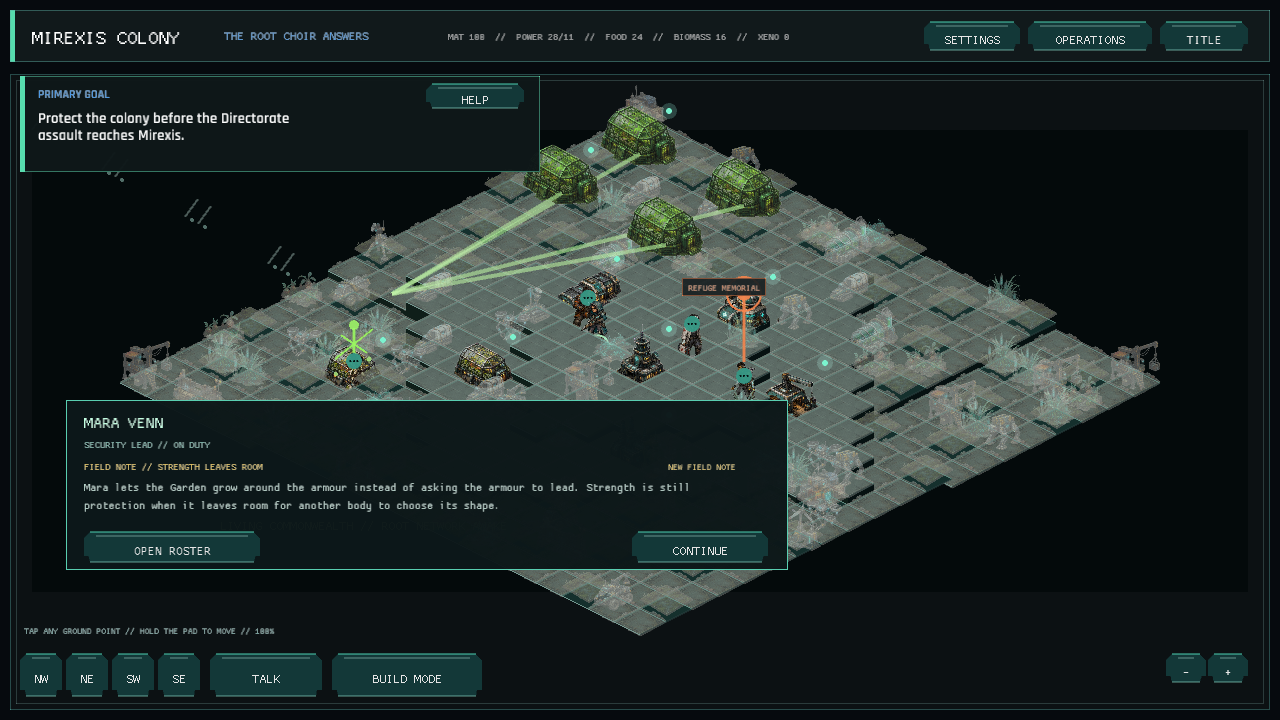
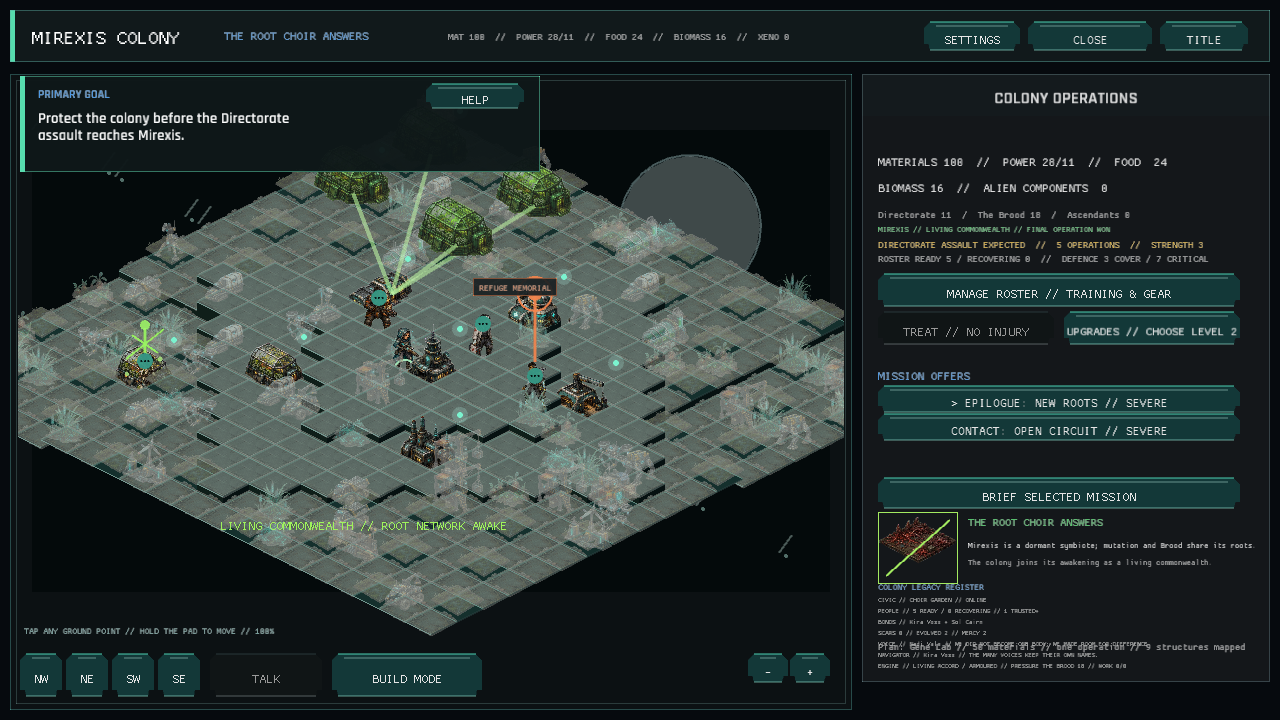
The three houses keep their ledger inside (ending register)
Ending captures previously hid the identity card behind a closed Operations drawer, while the colony legacy register overflowed its lower panel when opened. Show the complete ending drawer in all three deterministic captures, compress the register into seven bounded lines, add register coverage, refresh evidence, and record the 1.202.0 no-schema-change checkpoint.

diff --git a/src/epilogue.rs b/src/epilogue.rs
@@ -12,9 +12,7 @@ pub(crate) struct EpilogueDossier {
     recovering: usize,
     trusted_bonds: usize,
     bond_detail: String,
-    scars: String,
     scar_count: usize,
-    evolutions: String,
     evolved_count: usize,
     character_voice: String,
     navigator_voice: String,
@@ -27,34 +25,6 @@ pub(crate) struct EpilogueDossier {
 }
 
 impl EpilogueDossier {
-    pub(crate) fn lines(&self) -> [String; 8] {
-        [
-            format!(
-                "CIVIC // {} // {}",
-                self.institution.to_uppercase(),
-                self.institution_status
-            ),
-            format!("PEOPLE // {}", self.people),
-            format!(
-                "BONDS // {} TRUSTED+ // {}",
-                self.trusted_bonds, self.bond_detail
-            ),
-            format!("SCARS // {}", self.scars),
-            format!("EVOLUTION // {}", self.evolutions),
-            format!("VOICE // {}", self.character_voice),
-            format!("NAVIGATOR // {}", self.navigator_voice),
-            format!(
-                "ENGINE // {} / {} // {} // MERCY {} // EPILOGUE WORK {} // CIVIC WORK {}",
-                self.engine_relationship,
-                self.engine_response,
-                self.faction_pressure,
-                self.mercy_count,
-                self.post_campaign_operations_completed,
-                self.identity_stewardship_completed
-            ),
-        ]
-    }
-
     pub(crate) fn debrief_summary_lines(&self) -> [String; 3] {
         [
             format!(
@@ -76,6 +46,35 @@ impl EpilogueDossier {
                 self.engine_relationship,
                 self.engine_response,
                 self.mercy_count,
+                self.post_campaign_operations_completed,
+                self.identity_stewardship_completed
+            ),
+        ]
+    }
+
+    pub(crate) fn register_lines(&self) -> [String; 7] {
+        [
+            format!(
+                "CIVIC // {} // {}",
+                self.institution.to_uppercase(),
+                self.institution_status
+            ),
+            format!(
+                "PEOPLE // {} READY / {} RECOVERING // {} TRUSTED+",
+                self.ready, self.recovering, self.trusted_bonds
+            ),
+            format!("BONDS // {}", self.bond_detail),
+            format!(
+                "SCARS {} // EVOLVED {} // MERCY {}",
+                self.scar_count, self.evolved_count, self.mercy_count
+            ),
+            format!("VOICE // {}", self.character_voice),
+            format!("NAVIGATOR // {}", self.navigator_voice),
+            format!(
+                "ENGINE // {} / {} // PRESSURE {} // WORK {}/{}",
+                self.engine_relationship,
+                self.engine_response,
+                self.faction_pressure,
                 self.post_campaign_operations_completed,
                 self.identity_stewardship_completed
             ),
@@ -145,34 +144,17 @@ pub(crate) fn derive(campaign: &CampaignState) -> Option<EpilogueDossier> {
         },
     );
 
-    let scarred = campaign
-        .roster
-        .iter()
-        .filter(|character| !character.traumas.is_empty())
-        .map(|character| character.name.clone())
-        .collect::<Vec<_>>();
     let scar_count = campaign
         .roster
         .iter()
         .map(|character| character.traumas.len())
         .sum::<usize>();
-    let scars = if scar_count == 0 {
-        "NONE RECORDED".to_owned()
-    } else {
-        format!("{} CARRIED // {}", scar_count, scarred.join(", "))
-    };
 
-    let evolved = campaign
+    let evolved_count = campaign
         .roster
         .iter()
         .filter(|character| !character.mutation_evolution_id.is_empty())
-        .map(|character| character.name.clone())
-        .collect::<Vec<_>>();
-    let evolutions = if evolved.is_empty() {
-        "NONE // THE OLD BODY HOLDS".to_owned()
-    } else {
-        format!("{} COLONISTS // {}", evolved.len(), evolved.join(", "))
-    };
+        .count();
     let character_voice = character_voice(campaign);
     let navigator_voice = navigator_voice(campaign);
     let engine_relationship = engine_relationship(&campaign.strategy.mirexis_path_id);
@@ -193,10 +175,8 @@ pub(crate) fn derive(campaign: &CampaignState) -> Option<EpilogueDossier> {
         recovering,
         trusted_bonds: trusted.len(),
         bond_detail,
-        scars,
         scar_count,
-        evolutions,
-        evolved_count: evolved.len(),
+        evolved_count,
         character_voice,
         navigator_voice,
         engine_relationship,

diff --git a/src/epilogue/tests.rs b/src/epilogue/tests.rs
@@ -46,20 +46,7 @@ fn epilogue_records_the_civic_state_and_people_who_carried_it() {
     });
 
     let dossier = derive(&campaign).unwrap();
-    let lines = dossier.lines();
     assert_eq!(dossier.institution, "Redoubt Arsenal");
-    assert!(lines[0].contains("REDOUBT ARSENAL"));
-    assert!(lines[1].contains("COLONISTS"));
-    assert!(lines[2].contains("TRUSTED+"));
-    assert!(lines[2].contains("+") && !lines[2].contains("NO TRUSTED"));
-    assert!(lines[3].contains("CARRIED"));
-    assert!(lines[4].contains("EVOLUTION"));
-    assert!(lines[6].contains("NAVIGATOR // Kira Voss"));
-    assert!(lines[7].contains("ENGINE // HUMAN BOUNDARY / ARMOURED"));
-    assert!(lines[7].contains("DIRECTORATE 29"));
-    assert!(lines[7].contains("MERCY 1"));
-    assert!(lines[7].contains("EPILOGUE WORK 2"));
-    assert!(lines[7].contains("CIVIC WORK 3"));
     let summary = dossier.debrief_summary_lines();
     assert!(summary[0].contains("REDOUBT ARSENAL ONLINE"));
     assert!(summary[0].contains("5 COLONISTS"));
@@ -70,6 +57,13 @@ fn epilogue_records_the_civic_state_and_people_who_carried_it() {
     assert!(summary[2].contains("ENGINE HUMAN BOUNDARY / ARMOURED"));
     assert!(summary[2].contains("EPILOGUE 2"));
     assert!(summary[2].contains("CIVIC 3"));
+    let register = dossier.register_lines();
+    assert_eq!(register.len(), 7);
+    assert!(register[0].contains("CIVIC // REDOUBT ARSENAL // ONLINE"));
+    assert!(register[1].contains("5 READY / 0 RECOVERING // 1 TRUSTED+"));
+    assert!(register[2].contains("Kira Voss + Mara Venn"));
+    assert!(register[3].contains("SCARS 1 // EVOLVED 1 // MERCY 1"));
+    assert!(register[6].contains("PRESSURE DIRECTORATE 29 // WORK 2/3"));
 }
 
 #[test]
@@ -122,13 +116,13 @@ fn epilogue_adds_an_authored_voice_for_each_identity_path() {
         campaign.strategy.escalation_response_id = response_id.to_owned();
         campaign.strategy.character_events[0].resolved = true;
 
-        let ready = derive(&campaign).unwrap().lines();
-        assert!(ready[5].contains(character_name));
-        assert!(ready[5].contains(ready_line));
-        assert!(ready[6].contains("NAVIGATOR // Kira Voss"));
-        assert!(ready[7].contains(engine_relationship));
-        assert!(ready[7].contains(engine_response));
-        assert!(ready[7].contains("MERCY 1"));
+        let ready = derive(&campaign).unwrap().register_lines();
+        assert!(ready[4].contains(character_name));
+        assert!(ready[4].contains(ready_line));
+        assert!(ready[5].contains("NAVIGATOR // Kira Voss"));
+        assert!(ready[6].contains(engine_relationship));
+        assert!(ready[6].contains(engine_response));
+        assert!(ready[6].contains("PRESSURE"));
 
         campaign
             .roster
@@ -136,9 +130,9 @@ fn epilogue_adds_an_authored_voice_for_each_identity_path() {
             .find(|character| character.id == character_id)
             .unwrap()
             .availability = Availability::Recovering;
-        let recovering = derive(&campaign).unwrap().lines();
-        assert!(recovering[5].contains(recovering_line));
-        assert_ne!(ready[5], recovering[5]);
+        let recovering = derive(&campaign).unwrap().register_lines();
+        assert!(recovering[4].contains(recovering_line));
+        assert_ne!(ready[4], recovering[4]);
     }
 }
 
@@ -162,7 +156,7 @@ fn epilogue_names_the_mireborn_timeline_when_sedge_survives() {
         });
     campaign.recruit_outsider(&data).unwrap();
 
-    let voice = derive(&campaign).unwrap().lines()[5].clone();
+    let voice = derive(&campaign).unwrap().register_lines()[4].clone();
     assert!(voice.contains("SEDGE"));
     assert!(voice.contains("OLD BODY WAS HERE FIRST"));
 }

diff --git a/src/colony_ui.rs b/src/colony_ui.rs
@@ -686,12 +686,12 @@ fn draw_epilogue_dossier(dossier: &crate::epilogue::EpilogueDossier) {
         590.0,
         TextStyle::new(11.0, dark::ACCENT).params(),
     );
-    for (index, line) in dossier.lines().iter().enumerate() {
+    for (index, line) in dossier.register_lines().iter().enumerate() {
         draw_ui_text_ex(
             line,
             878.0,
-            607.0 + index as f32 * 14.0,
-            TextStyle::new(8.5, dark::TEXT_DIM).params(),
+            602.0 + index as f32 * 11.0,
+            TextStyle::new(7.5, dark::TEXT_DIM).params(),
         );
     }
 }

diff --git a/src/game/capture_scenes.rs b/src/game/capture_scenes.rs
@@ -500,6 +500,7 @@ impl Game {
             .refresh_mirexis_completion(&self.data));
         self.campaign.strategy.regenerate_missions(&self.data);
         self.campaign.operations_completed = 1;
+        self.colony_operations_open = true;
         self.state = AppState::Colony;
     }
 

diff --git a/docs/verification/FINAL_CAPTURE_INVENTORY.md b/docs/verification/FINAL_CAPTURE_INVENTORY.md
@@ -33,6 +33,7 @@ Manifest: `scripts/capture_ui.ps1`
 - `ui_battle_log.png` and `ui_phase_replay.png`: attack history and hostile replay beats use readable display names, name HIT/MISS outcomes with immediate damage consequences, and the battle log distinguishes ability, recovery, status, objective, and cover events with matching counts on each filter.
 - `ui_debrief.png`: the operation result keeps rewards and squad consequences visible while the notification stack names each automatic technique learned by a readable colonist name.
 - `ui_finale_debrief.png`: the completed-campaign title, bounded legacy summary, operation result, and reward card remain separated and readable.
+- `ui_redoubt_end.png`, `ui_commonwealth_end.png`, and `ui_threshold_end.png`: the identity ending card and bounded colony legacy register remain inside the open Operations drawer.
 - `ui_gene_lab.png` and `ui_recruited_gene_lab.png`: the mutation anatomy scan label remains visible above the separated irreversible evolution cards.
 - `ui_roster.png` and `ui_recruited_roster.png`: the complete equipment catalog clears the footer instruction baseline in both roster variants.
 - `ui_combat_feedback.png`: hit, miss, critical, damage, recovery, objective, and cover callouts remain anchored to their affected field locations and stack clear of unit effects.
@@ -62,9 +63,9 @@ Manifest: `scripts/capture_ui.ps1`
[12 lines of base64/hex data omitted]

diff --git a/docs/verification/UI_GRAPHICS_ACCEPTANCE_MATRIX.md b/docs/verification/UI_GRAPHICS_ACCEPTANCE_MATRIX.md
@@ -81,9 +81,9 @@ Each row must have a post-overhaul PNG in the final capture directory and pass t
 | escalation_response | Campaign event | Choice identity mainly textual | `ui_escalation_response.png` | PASS |
 | mirexis | Colony | Late-game hybridisation too weak | `ui_mirexis.png` | PASS |
 | mirexis_path | Campaign choice | Path identity mainly textual | `ui_mirexis_path.png` | PASS |
-| redoubt_end | Ending | Ending reuses colony grid | `ui_redoubt_end.png` | PASS |
-| commonwealth_end | Ending | Ending reuses colony grid | `ui_commonwealth_end.png` | PASS |
-| threshold_end | Ending | Ending reuses colony grid | `ui_threshold_end.png` | PASS |
+| redoubt_end | Ending | Ending capture hid the identity card and the legacy register exceeded the Operations drawer | `ui_redoubt_end.png` | PASS |
+| commonwealth_end | Ending | Ending capture hid the identity card and the legacy register exceeded the Operations drawer | `ui_commonwealth_end.png` | PASS |
+| threshold_end | Ending | Ending capture hid the identity card and the legacy register exceeded the Operations drawer | `ui_threshold_end.png` | PASS |
 | finale_debrief | Debrief | Unbounded colony legacy summary crossed the reward card and retained early-operation guidance | `ui_finale_debrief.png` | PASS |
 | adaptation_operation | Briefing | Weak mission scene identity | `ui_adaptation_operation.png` | PASS |
 | glass_nerve | Tactical | Flat rectangular battlefield | `ui_glass_nerve.png` | PASS |

diff --git a/docs/PHASE_1_HARDENING.md b/docs/PHASE_1_HARDENING.md
@@ -57,7 +57,8 @@ Status: automated and internal verification complete; external playtests pending
   label coverage, facility-upgrade blocker-label coverage, first-hour investment
   material-gate label coverage, character-event food-gate label coverage, Build Mode
   construction-blocker label coverage, roster equipment-row geometry coverage, finale
-  debrief summary coverage, and completed-campaign debrief voice coverage.
+  debrief summary coverage, completed-campaign debrief voice coverage, and bounded
+  ending-register coverage.
 - External asset-registry and Rust source-size gates pass.
 - `publish.ps1` passes without parameters for Windows and WebGL and deploys to preview.
 - The canonical set contains 100 audited 1280×720 scenes, including the first-hour
@@ -68,6 +69,8 @@ Status: automated and internal verification complete; external playtests pending
   disclosure,
   enemy-phase readiness and replay-skip transitions, and forecast/first-hour layout changes
   replace their affected images.
+  The three ending captures also open the Operations drawer so each path-specific identity
+  card and bounded colony legacy register is visible in the canonical evidence.
 
 ## Honest boundary
 

diff --git a/TECHNICAL_DESIGN.md b/TECHNICAL_DESIGN.md
@@ -2,7 +2,7 @@
 
 Status: systems-rich tech demo; playable-game refinement in progress
 Current production target: cohesive first-hour playable build
-Save/content version: 1.201.0
+Save/content version: 1.202.0
 Target platforms: Windows and browser/WASM
 Runtime: Rust 2021, Macroquad, macroquad-toolkit
 
@@ -977,6 +977,7 @@ Migration coverage:
 | 1.199.0 | Gene Lab evolution cards now clear the portrait anatomy scan label and the return control; no new save fields |
 | 1.200.0 | Roster equipment rows now clear the footer instruction baseline across the full catalog; no new save fields |
 | 1.201.0 | Finale debrief legacy summaries now use bounded readable lines and suppress early-operation guidance after campaign completion; no new save fields |
+| 1.202.0 | Ending captures now open the Operations drawer and its colony legacy register uses seven bounded rows beneath each path-specific identity card; no new save fields |
 
 Every future schema bump must migrate the immediately previous version and add a
 fixture test. Validate saved content IDs before adding content removal or renaming.

diff --git a/docs/PHASE_1_ACCEPTANCE_MATRIX.md b/docs/PHASE_1_ACCEPTANCE_MATRIX.md
@@ -1,7 +1,7 @@
 # Phase 1 Acceptance Matrix
 
 Status: implementation evidence audited; observed-session gates pending
-Audit baseline: save/content 1.201.0, validated and committed with this matrix
+Audit baseline: save/content 1.202.0, validated and committed with this matrix
 
 This matrix maps every Phase 1 workstream and definition-of-done requirement to
 authoritative evidence. `VERIFIED` means code, tests, captures, or an operator-run path
